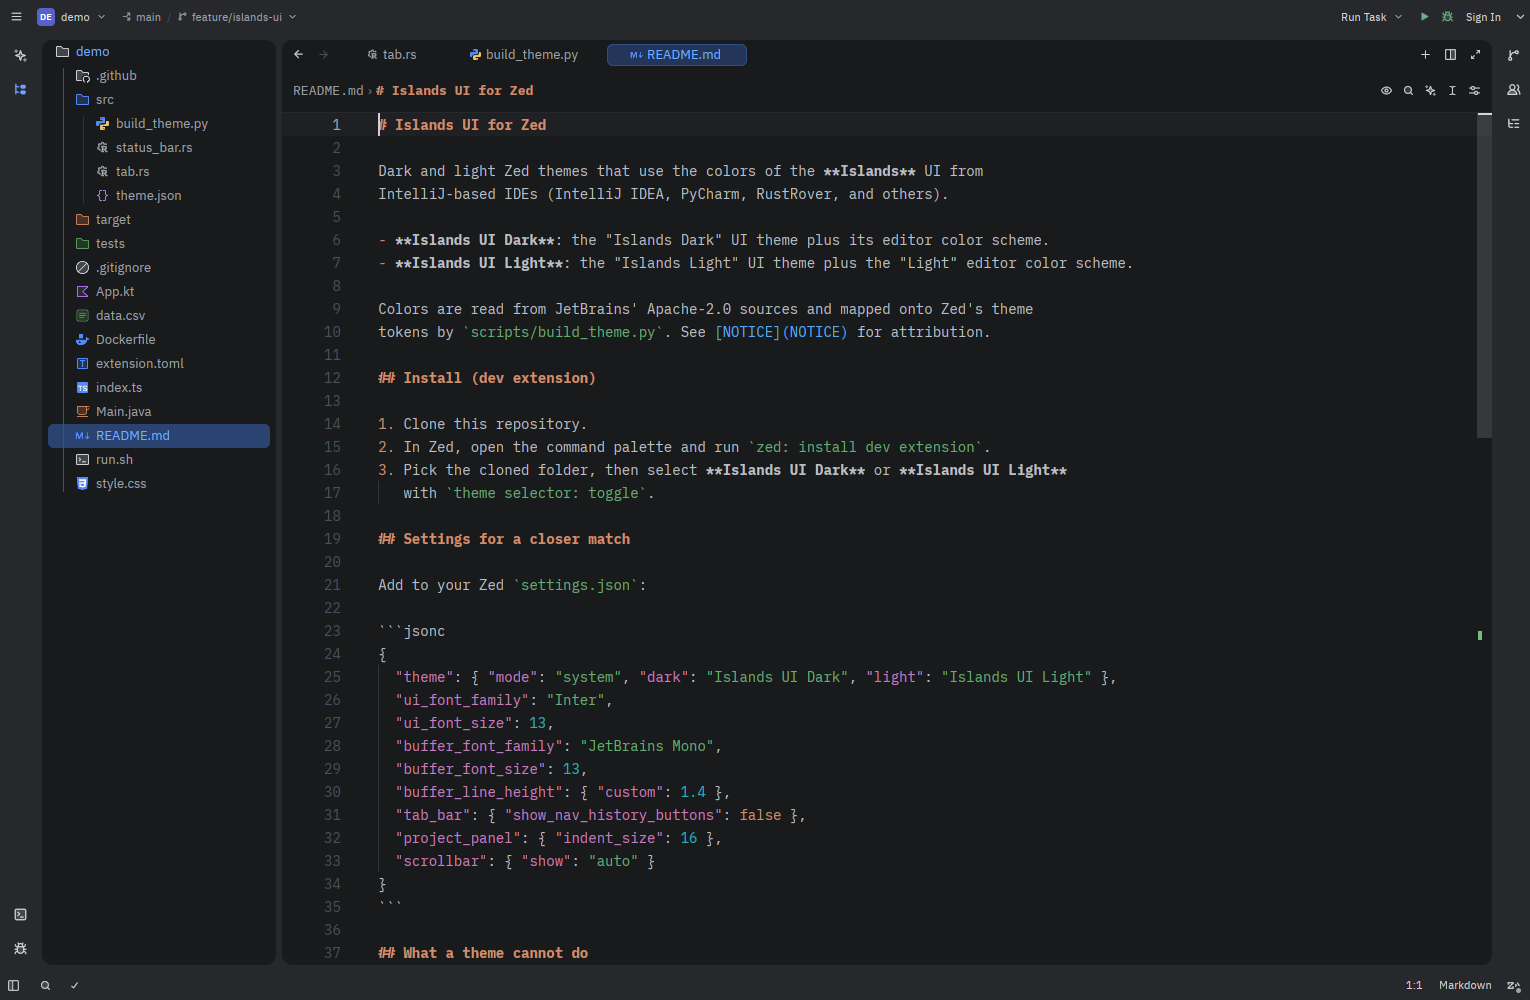
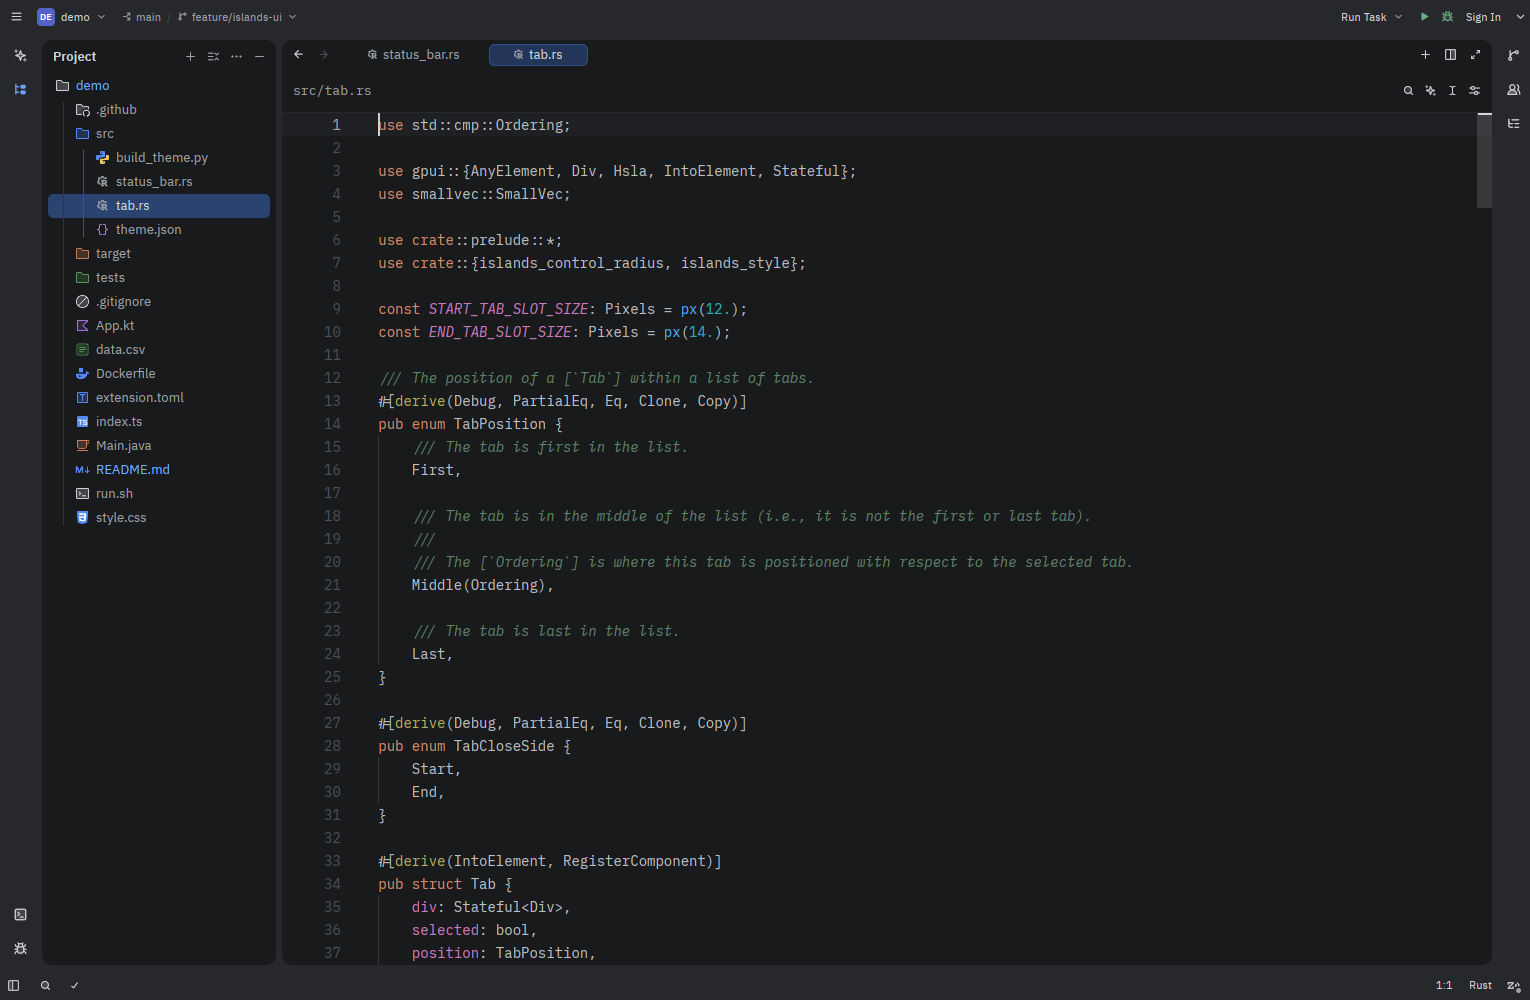
Mention panel headers and refresh screenshot
Claude-Session: https://claude.ai/code/session_01BnQ6HuAUheDSWa9N9Mwti8

diff --git a/README.md b/README.md
@@ -61,7 +61,8 @@ A prototype of the layout change lives on the `islands-layout` branch of
 the editor and docks as rounded islands, editor tabs as pills, and project
 panel rows as inset rounded highlights, and moves panel toggles into IDEA-style
 tool window stripes along the window edges. The title bar gets IDEA-style project,
-branch and run widgets. Enable it with:
+branch and run widgets, and each docked panel gets a header row with its name,
+its actions, an options menu and a hide button. Enable it with:
 
 ```jsonc
 "islands": { "enabled": true, "gap": 6, "corner_radius": 10, "tool_window_stripes": true }
